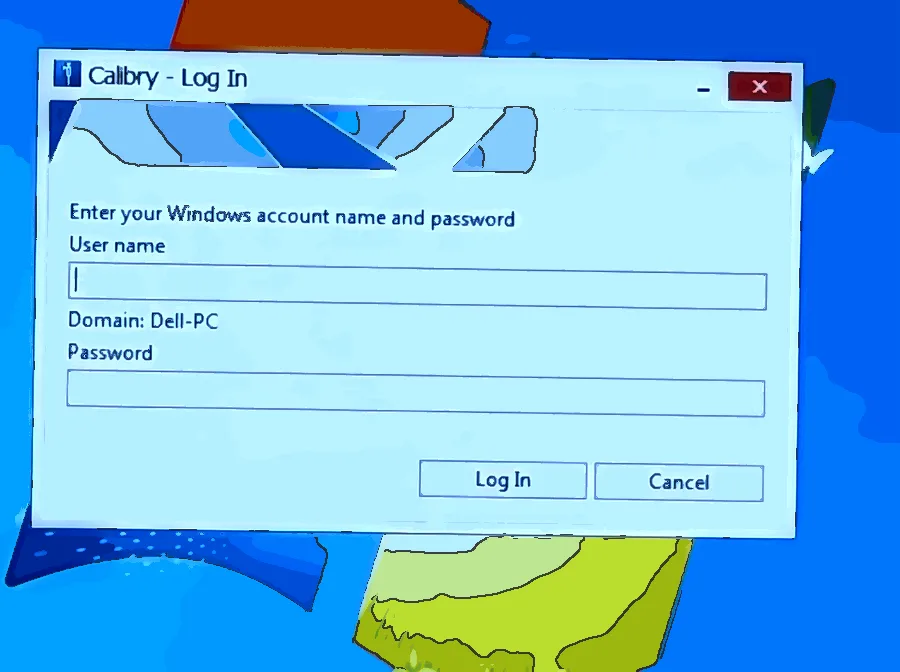
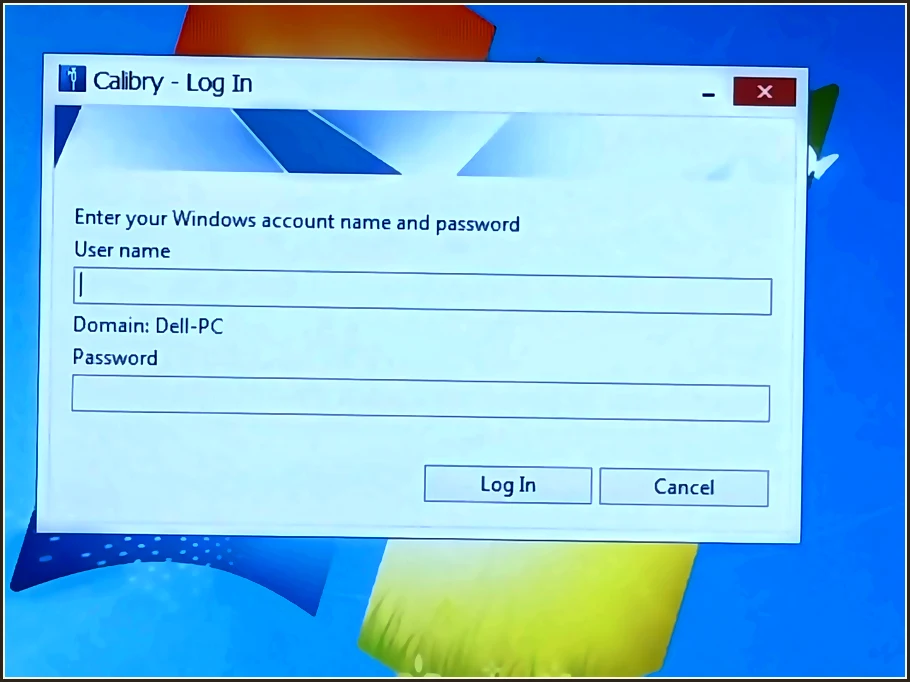
Clean screen images, fix Balance/Demo marks
Claude-Session: https://claude.ai/code/session_01NqXJURzYw6HcZowasypQgZ

diff --git a/index.html b/index.html
@@ -200,7 +200,7 @@ bdi.en{font-family:'Thmanyah Sans',sans-serif;font-weight:700;font-size:.95em;co
 <div class="zoom" id="zoom"><div class="zb" id="zb"></div></div>
 
 <script>
-const IMG = {"eq_pc": ["img/eq_pc.webp?v=1795541538", 0.8571], "eq_testo": ["img/eq_testo.webp?v=1795541538", 1.1765], "eq_water": ["img/eq_water.webp?v=1795541538", 1.2317], "eq_pipette": ["img/eq_pipette.webp?v=1795541538", 0.8571], "eq_balance": ["img/eq_balance.webp?v=1795541538", 0.5643], "eq_tips": ["img/eq_tips.webp?v=1795541538", 0.7524], "eq_calibry": ["img/eq_calibry.webp?v=1795541538", 0.75], "eq_report": ["img/eq_report.webp?v=1795541538", 0.969], "eq_suction": ["img/eq_suction.webp?v=1795541538", 0.5643], "eq_login": ["img/eq_login.webp?v=1795541538", 1.5613], "r_water": ["img/r_water.webp?v=1795541538", 1.0], "r_balance": ["img/r_balance.webp?v=1795541538", 1.1968], "r_login": ["img/r_login.webp?v=1795541538", 1.3393], "s1_pc": ["img/s1_pc.webp?v=1795541538", 0.8033], "s1_testo": ["img/s1_testo.webp?v=1795541538", 2.0], "s2_login": ["img/s2_login.webp?v=1795541538", 1.3393], "s3_icon": ["img/s3_icon.webp?v=1795541538", 1.125], "s3_green": ["img/s3_green.webp?v=1795541538", 1.7751], "s4_min": ["img/s4_min.webp?v=1795541538", 1.25], "s5_calibry": ["img/s5_calibry.webp?v=1795541538", 1.125], "s6_menu": ["img/s6_menu.webp?v=1795541538", 0.6489], "s6_search": ["img/s6_search.webp?v=1795541538", 1.7578], "s7_iso": ["img/s7_iso.webp?v=1795541538", 2.9126], "s8_cyan": ["img/s8_cyan.webp?v=1795541538", 2.9126], "s9_date": ["img/s9_date.webp?v=1795541538", 1.0676], "s10_start": ["img/s10_start.webp?v=1795541538", 1.5762], "s10_balance": ["img/s10_balance.webp?v=1795541538", 1.125], "s11_level": ["img/s11_level.webp?v=1795541538", 0.6744], "s12_measure": ["img/s12_measure.webp?v=1795541538", 3.5573], "s13_green": ["img/s13_green.webp?v=1795541538", 3.5573], "s13_view": ["img/s13_view.webp?v=1795541538", 1.7045], "s13_save": ["img/s13_save.webp?v=1795541538", 1.875], "s13_name": ["img/s13_name.webp?v=1795541538", 1.3081], "s14_red": ["img/s14_red.webp?v=1795541538", 3.5573], "s14_cancel": ["img/s14_cancel.webp?v=1795541538", 0.8656], "w_trap": ["img/w_trap.webp?v=1795541538", 0.7533], "w_suction": ["img/w_suction.webp?v=1795541538", 0.7533], "w_max": ["img/w_max.webp?v=1795541538", 1.1968], "w_metal": ["img/w_metal.webp?v=1795541538", 1.7717], "end_pc": ["img/end_pc.webp?v=1795541538", 0.8033], "s7_add": ["img/s7_add.webp?v=1795541538", 1.4041], "s14_report": ["img/s14_report.webp?v=1795541538", 1.0714], "n_dispense": ["img/n_dispense.webp?v=1795541538", 0.6667], "e_remove": ["img/e_remove.webp?v=1795541538", 1.3274], "e_ring": ["img/e_ring.webp?v=1795541538", 1.3274]};
+const IMG = {"eq_pc": ["img/eq_pc.webp?v=1795542089", 0.8571], "eq_testo": ["img/eq_testo.webp?v=1795542089", 1.1765], "eq_water": ["img/eq_water.webp?v=1795542089", 1.2317], "eq_pipette": ["img/eq_pipette.webp?v=1795542089", 0.8571], "eq_balance": ["img/eq_balance.webp?v=1795542089", 0.5643], "eq_tips": ["img/eq_tips.webp?v=1795542089", 0.7524], "eq_calibry": ["img/eq_calibry.webp?v=1795542089", 0.7558], "eq_report": ["img/eq_report.webp?v=1795542089", 0.9698], "eq_suction": ["img/eq_suction.webp?v=1795542089", 0.5643], "eq_login": ["img/eq_login.webp?v=1795542089", 1.5412], "r_water": ["img/r_water.webp?v=1795542089", 1.0], "r_balance": ["img/r_balance.webp?v=1795542089", 1.1942], "r_login": ["img/r_login.webp?v=1795542089", 1.3343], "s1_pc": ["img/s1_pc.webp?v=1795542089", 0.8033], "s1_testo": ["img/s1_testo.webp?v=1795542089", 2.0], "s2_login": ["img/s2_login.webp?v=1795542089", 1.3343], "s3_icon": ["img/s3_icon.webp?v=1795542089", 1.1235], "s3_green": ["img/s3_green.webp?v=1795542089", 1.7602], "s4_min": ["img/s4_min.webp?v=1795542089", 1.2466], "s5_calibry": ["img/s5_calibry.webp?v=1795542089", 1.1235], "s6_menu": ["img/s6_menu.webp?v=1795542089", 0.6527], "s6_search": ["img/s6_search.webp?v=1795542089", 1.7433], "s7_iso": ["img/s7_iso.webp?v=1795542089", 2.8527], "s8_cyan": ["img/s8_cyan.webp?v=1795542089", 2.8527], "s9_date": ["img/s9_date.webp?v=1795542089", 1.0668], "s10_start": ["img/s10_start.webp?v=1795542089", 1.5663], "s10_balance": ["img/s10_balance.webp?v=1795542089", 1.1235], "s11_level": ["img/s11_level.webp?v=1795542089", 0.678], "s12_measure": ["img/s12_measure.webp?v=1795542089", 3.4601], "s13_green": ["img/s13_green.webp?v=1795542089", 3.4601], "s13_view": ["img/s13_view.webp?v=1795542089", 1.6914], "s13_save": ["img/s13_save.webp?v=1795542089", 1.8571], "s13_name": ["img/s13_name.webp?v=1795542089", 1.3037], "s14_red": ["img/s14_red.webp?v=1795542089", 3.4601], "s14_cancel": ["img/s14_cancel.webp?v=1795542089", 0.867], "w_trap": ["img/w_trap.webp?v=1795542089", 0.7533], "w_suction": ["img/w_suction.webp?v=1795542089", 0.7533], "w_max": ["img/w_max.webp?v=1795542089", 1.1942], "w_metal": ["img/w_metal.webp?v=1795542089", 1.7717], "end_pc": ["img/end_pc.webp?v=1795542089", 0.8033], "s7_add": ["img/s7_add.webp?v=1795542089", 1.3978], "s14_report": ["img/s14_report.webp?v=1795542089", 1.0706], "n_dispense": ["img/n_dispense.webp?v=1795542089", 0.6667], "e_remove": ["img/e_remove.webp?v=1795542089", 1.3274], "e_ring": ["img/e_ring.webp?v=1795542089", 1.3274]};
 const en = s => `<bdi class="en" dir="ltr">\u2066${s}\u2069</bdi>`;
 
 const ICONS = {
@@ -288,7 +288,7 @@ const PAGES = [
      t:`حدّد <b>تاريخ المعايرة القادم</b> (<b>6 أشهر</b> أو <b>سنة</b>).`},
     {n:10, h:'بدء المعايرة', hs:'GREEN BUTTON → BALANCE → CONTINUE', shots:[
         {i:'s10_start', m:[{c:[.26,.42,.08],a:[.6,.95]}]},
-        {i:'s10_balance', m:[{c:[.23,.27,.08]},{x:[.38,.305,.045],d:.8},{c:[.76,.87,.15],a:[.5,.62],d:1.2}]}],
+        {i:'s10_balance', m:[{b:[.235,.255,.69,.295],cls:'g'},{x:[.37,.302,.018],d:.8},{b:[.36,.835,.68,.9],d:1.2},{c:[.52,.865,.001],a:[.85,.6],d:1.4}]}],
      t:`ابدأ المعايرة بالضغط على <b>الزر الأخضر</b>، وتأكد من أن الوضع <b>الميزان (${en('Balance')})</b> وليس <b>${en('Demo')}</b>، ثم اضغط <b>${en('Continue')}</b>.`},
    ],
    banner:`اختر ${en('ISO 8655 Piston type A')} • الوضع ${en('Balance')} وليس ${en('Demo')}`},
